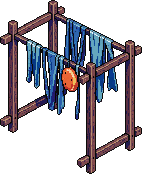
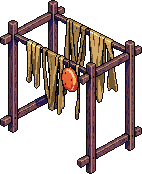
Harbor grounding + lighting pass: a hero beacon, lantern light pools, real shadows
Addresses the harsh reviewer + Ash 'fix the harbor primarily':
- The beacon is now the HERO — enlarged into a tall vertical anchor with a
  breathing warm halo + lamp core; the breakwater arm frames it.
- Lantern light now POOLS warm on the deck (golden-hour light doing work).
- The moored ship + boats get bold dark contact shadows so they sit IN the
  water, not on it; the second fisher is a distinct blue-grey hull (was a copy).
- Trimmed 8 identical lanterns to 5 spaced; recolored the breakwater moss to
  wet grey and the drying nets from clashing blue to warm tan.

diff --git a/src/game/island/IslandMapIso.tsx b/src/game/island/IslandMapIso.tsx
@@ -1377,12 +1377,21 @@ export default function IslandMapIso() {
               sp.zIndex = zB + 720
               world.addChild(sp)
               if (o.glow) {
+                // the lamp itself glows...
                 const g = new Sprite(foamTex); g.anchor.set(0.5, 0.5); g.blendMode = 'add'
-                g.tint = 0xffb050; g.width = 64; g.height = 42; g.alpha = 0.3
+                g.tint = 0xffb050; g.width = 60; g.height = 40; g.alpha = 0.34
                 g.position.set(bx2 + 2, by2 - t.height * (o.sc ?? 1) + 24)
                 g.zIndex = zB + 724
                 world.addChild(g)
-                glows.push({ sp: g, ph: hash(at[0], at[1]) * 6.3, a: 0.3 })
+                glows.push({ sp: g, ph: hash(at[0], at[1]) * 6.3, a: 0.34 })
+                // ...and pools warm light on the DECK at its foot (golden-hour
+                // light doing work — the reviewer's biggest "expensive" cue)
+                const pool = new Sprite(foamTex); pool.anchor.set(0.5, 0.5); pool.blendMode = 'add'
+                pool.tint = 0xffa848; pool.width = 84; pool.height = 46; pool.alpha = 0.26
+                pool.position.set(bx2 + 2, by2 - 2)
+                pool.zIndex = zB + 6
+                world.addChild(pool)
+                glows.push({ sp: pool, ph: hash(at[0], at[1]) * 6.3, a: 0.26 })
               }
               return sp
             }
@@ -1407,17 +1416,26 @@ export default function IslandMapIso() {
             }
             if (hb['beacon']) {
               const at = HARBOR.beacon
+              const BSC = 1.32     // the HERO of the harbor — the tall vertical anchor
               const bx2 = isoX(at[0], at[1]), by2 = isoY(at[0], at[1]) + GY - 8
               const zB = Math.floor(at[0] + at[1]) * 4000
               const sp = new Sprite(hb['beacon']); sp.anchor.set(0.5, 0.97)
-              sp.position.set(bx2, by2); sp.zIndex = zB + 940
+              sp.position.set(bx2, by2); sp.scale.set(BSC); sp.zIndex = zB + 940
               world.addChild(sp)
+              const lampY = by2 - hb['beacon'].height * BSC + 44
+              // a broad warm HALO + a bright lamp core, both breathing — the one
+              // light source in the frame doing real work at golden hour
+              const halo = new Sprite(foamTex); halo.anchor.set(0.5, 0.5); halo.blendMode = 'add'
+              halo.tint = 0xffb84e; halo.width = 190; halo.height = 130; halo.alpha = 0.32
+              halo.position.set(bx2, lampY); halo.zIndex = zB + 943
+              world.addChild(halo)
+              glows.push({ sp: halo, ph: 0.4, a: 0.34 })
               const g = new Sprite(foamTex); g.anchor.set(0.5, 0.5); g.blendMode = 'add'
-              g.tint = 0xffc060; g.width = 110; g.height = 70; g.alpha = 0.4
-              g.position.set(bx2, by2 - hb['beacon'].height + 42)
+              g.tint = 0xffe08a; g.width = 84; g.height = 58; g.alpha = 0.55
+              g.position.set(bx2, lampY)
               g.zIndex = zB + 944
               world.addChild(g)
-              glows.push({ sp: g, ph: 0.4, a: 0.42 })
+              glows.push({ sp: g, ph: 0.4, a: 0.55 })
             }
             // the teal school pennant flies at the pier's T-head
             try {
@@ -1502,9 +1520,13 @@ export default function IslandMapIso() {
               sp.zIndex = zB + 640
               world.addChild(sp)
               bobs.push({ sp, y0: by2, w: 0.55 + 0.3 * hash(at[0], at[1]), ph: hash(at[1], at[0]) * 6.3 })
+              return sp
             }
             boat(hb['sloop'], HARBOR.sloop)
-            boat(hb['sloop'], HARBOR.sloop2, 0.9, true)
+            // the second fisher is visibly DISTINCT (a weathered blue-grey hull),
+            // not an obvious copy of the first (reviewer: duplicated boats read cheap)
+            const sloop2Sp = boat(hb['sloop'], HARBOR.sloop2, 0.82, true)
+            if (sloop2Sp) sloop2Sp.tint = 0x8fb0b8
             // the rowboat is HAULED UP on the sand — a beached vignette, not afloat
             mount(hb['rowboat'], HARBOR.rowboat, { deck: false, sc: 0.8, flip: true })
             // THE SHIP HERSELF at the berth — the approved 16-view painted rigger,
@@ -1516,13 +1538,16 @@ export default function IslandMapIso() {
               const at = HARBOR.berth
               const bx2 = isoX(at[0], at[1]), by2 = isoY(at[0], at[1]) + GY + 4
               const zB = Math.floor(at[0] + at[1]) * 4000
+              // a BOLD dark contact shadow pooled under the hull grounds the
+              // ship's mass IN the water (the reviewer's #1: the biggest object
+              // was floating on the teal)
               const rf = new Sprite(shadTex); rf.anchor.set(0.5, 0.5)
-              rf.width = shipT.width * 0.72; rf.height = 24; rf.alpha = 0.32; rf.tint = 0x0a2a30
-              rf.position.set(bx2, by2 + 6); rf.zIndex = zB + 600
+              rf.width = shipT.width * 0.82; rf.height = 30; rf.alpha = 0.5; rf.tint = 0x06202a
+              rf.position.set(bx2, by2 + 7); rf.zIndex = zB + 600
               world.addChild(rf)
               const fm = new Sprite(foamTex); fm.anchor.set(0.5, 0.5)
-              fm.width = shipT.width * 0.95; fm.height = 26; fm.alpha = 0.5
-              fm.position.set(bx2, by2); fm.zIndex = zB + 602
+              fm.width = shipT.width * 1.0; fm.height = 30; fm.alpha = 0.6
+              fm.position.set(bx2, by2 + 2); fm.zIndex = zB + 602
               world.addChild(fm)
               const sp = new Sprite(shipT); sp.anchor.set(0.5, 0.86)
               sp.position.set(bx2, by2); sp.zIndex = zB + 900

diff --git a/src/game/island/hub-layout.ts b/src/game/island/hub-layout.ts
@@ -321,11 +321,12 @@ export function initHubLayout() {
       berth: [wxm + 7, ryMid - 3.4],            // the intro ship moors off the main pier's north face
       bell: [wxm + 3.3, ryMid - 1.2],           // greets arrivals at the main pier root (ON the deck)
       crane: [wxAt(ryMid - 3) + 1.6, ryMid - 3.2],
+      // a spaced lighting RHYTHM (trimmed 8→5: identical posts every 2 tiles read
+      // as clutter; spaced, their warm ground pools read as intentional harbor light)
       lanterns: [
-        [wxAt(y0 + 2) + 2.2, y0 + 2], [wxAt(ryMid - 8) + 2.2, ryMid - 8],
-        [wxAt(ryMid - 4) + 2.2, ryMid - 4], [wxm + 10.6, ryMid + 1.7],
+        [wxAt(y0 + 2) + 2.2, y0 + 2],
+        [wxAt(ryMid - 5) + 2.2, ryMid - 5], [wxm + 10.6, ryMid + 1.7],
         [wxAt(ryMid + 4) + 2.2, ryMid + 4], [wxs + 6.8, ryMid + 8.4],
-        [wxAt(y1 - 1) + 2.2, y1 - 1], [wxm + 8, ryMid + 1.6],
       ],
       // the cargo YARD: stacked freight working the wharf knuckle + the pier root
       cargo: [
